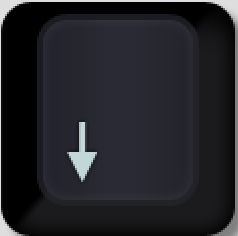
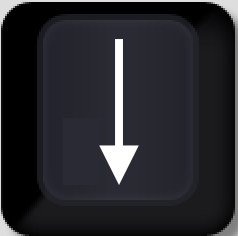
Update arrow keys in instructions

Changed region(s): [[0.2647, 0.1483, 0.5882, 0.7712]]

diff --git a/index.html b/index.html
@@ -57,21 +57,28 @@
                             Welcome to Falling Blocks! The rules of the game are simple. Blocks will drop from the top. Your job is to clear away as many lines as you can by filling up an entire row. Be careful as the blocks
                             will start to fall faster as you go. Good Luck!
                         </p>
-                        <p>
+                        <table id='controls'>
                             <b>Controls:</b>
-                        </br></br>
-                            Move left and right:    </br> <img class='instructions' src="images/left.png"/><img class='instructions' src="images/right.png"/>
-                        </br></br>
-                            Rotate the block 90:    </br> <img class='instructions' src="images/up.png"/>
-                        </br></br>
-                            Soft drop:              </br> <img class='instructions' src="images/down.png"/>
-                        </br></br>
-                            Hard drop:              </br> <img class='instructions' src="images/spacebar.png"/>
-                        </br></br>
-                            Play/Pause:             </br>  <img class='instructions' src="images/esc.png"/>
-                        </br></br>
-                            Hold the current block: </br>  <img class='instructions' src="images/shift.png"/>
-                        </p>
+
+                            <tr><td>Move left and right:</td>
+                                <td><img class='instructions' src="images/left.png"/><img class='instructions' src="images/right.png"/></td>
+                            </tr>
+                            <tr><td>Rotate the block 90:</td>
+                                <td><img class='instructions' src="images/up.png"/></td>
+                            </tr>
+                            <tr><td>Soft drop:</td>
+                                <td><img class='instructions' src="images/down.png"/></td>
+                            </tr>
+                            <tr><td>Hard drop:</td>
+                                <td><img class='instructions' src="images/spacebar.png"/></td>
+                            </tr>
+                            <tr><td>Play/Pause:</td>
+                                <td><img class='instructions' src="images/esc.png"/></td>
+                            </tr>
+                            <tr><td>Hold the current block:</td>
+                                <td><img class='instructions' src="images/shift.png"/></td>
+                            </tr>
+                        </table>
 
                     </div>
                 </div>

diff --git a/style.css b/style.css
@@ -268,7 +268,6 @@ h1 {
 
 .modal-content p.describe {
     color: #ff8c36;
-    text-shadow: 3px 2px black;
     background-color: #c7c7c7;
     padding: 10px 5px;
     font-size: 20pt;
@@ -276,8 +275,21 @@ h1 {
 }
 
 .modal-content img.instructions {
-    height: 50px;
+    height: 35px;
     width: auto;
     margin-top: 10px;
     clear: right;
+}
+
+table#controls {
+    background: inherit;
+    background-color: #c7c7c7;
+    text-align: center;
+    border-radius: 5px;
+    padding: 10px 5px;
+}
+
+table#controls img {
+    display: block;
+    margin: 0 auto;
 }
